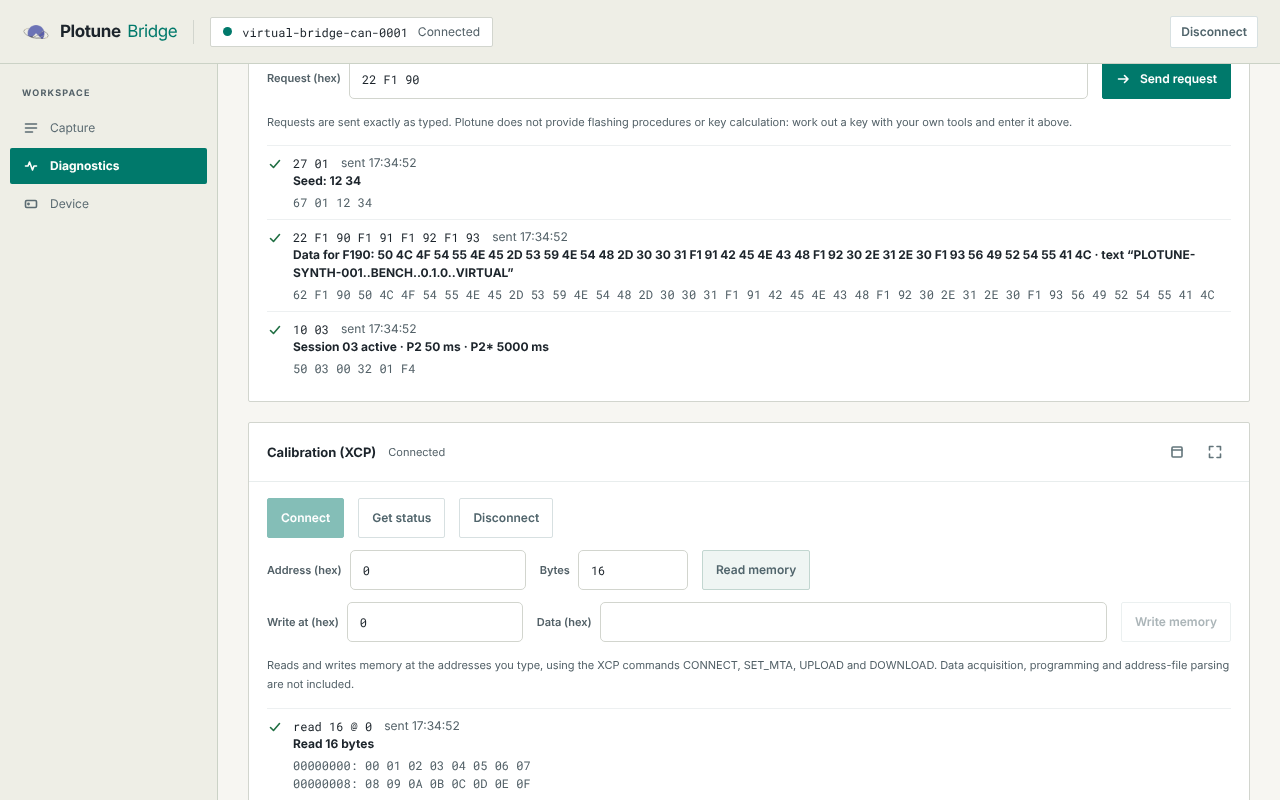
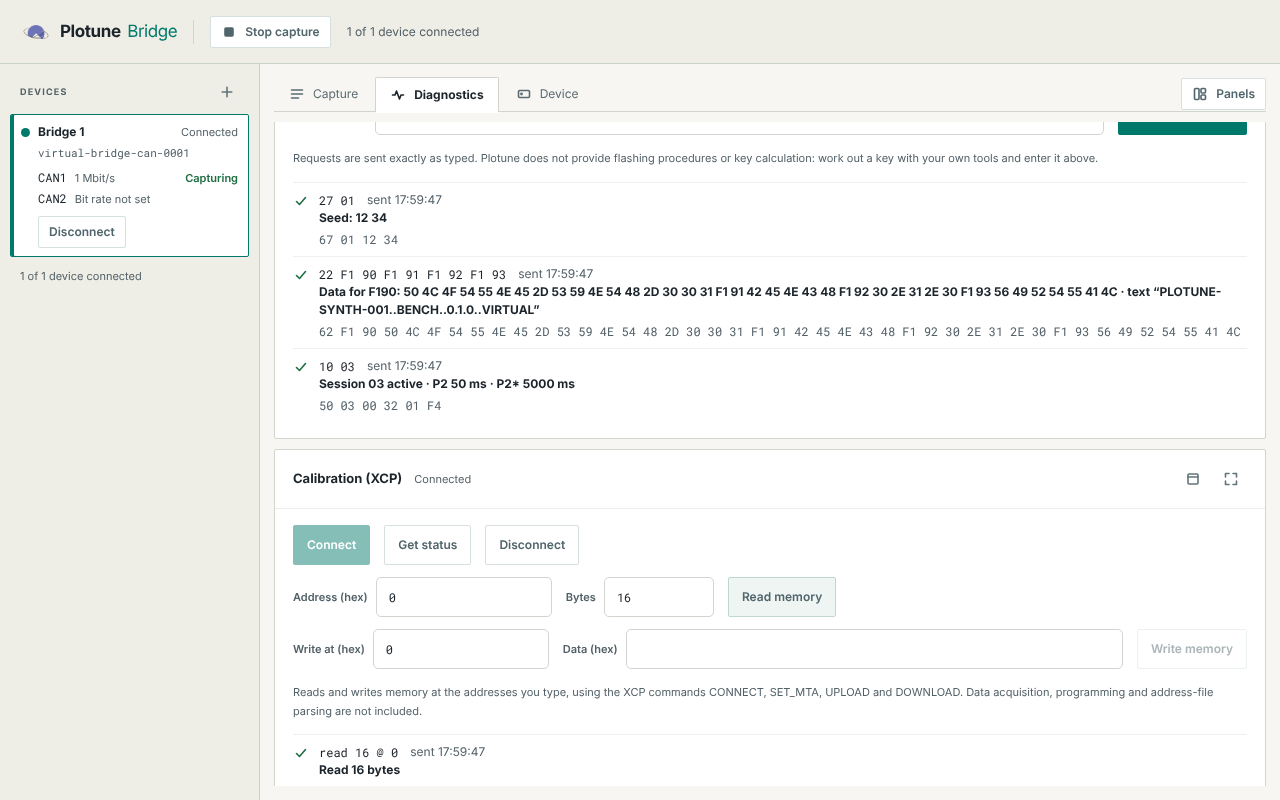
docs: describe the measurement-style layout, multi-device behaviour and new screenshots
Claude-Session: https://claude.ai/code/session_01KBLFDomS3vjcojxcnnjXQw

diff --git a/docs/ux-notes.md b/docs/ux-notes.md
@@ -71,11 +71,8 @@ Source paths are relative to `plotune-web` at the commit above. Line numbers ref
 | `--radius-badge` | `3px` | `src/StreamWorkspace/workspace.css:610` |
 | `--radius-dialog` | `8px` | `src/StreamWorkspace/workspace.css:1229` |
 | `--size-topbar` | `64px` | `src/StreamWorkspace/workspace.css:114` |
-| `--size-sidebar` | `218px` | `src/StreamWorkspace/workspace.css:219` |
+| `--size-setup` | `260px` | **Not from Stream.** Stream's sidebar is 218px (`workspace.css:219`); this list is wider to fit device names. |
 | `--size-control` | `40px` | `src/StreamWorkspace/workspace.css:432` |
-| `--size-nav-item` | `36px` | `src/StreamWorkspace/workspace.css:282` |
-| `--gap-grid` | `20px` | `src/StreamWorkspace/workspace.css:830` |
-| `--pad-main` | `25px 30px 0` | `src/StreamWorkspace/workspace.css:336` |
 | `--pad-panel-head` | `13px 18px` | `src/StreamWorkspace/workspace.css:527` |
 | `--pad-table-head` | `11px 18px` | `src/StreamWorkspace/workspace.css:578` |
 | `--pad-table-cell` | `10px 18px` | `src/StreamWorkspace/workspace.css:582` |
@@ -97,8 +94,8 @@ Source paths are relative to `plotune-web` at the commit above. Line numbers ref
 ## 2. Layout and type conventions taken from Stream
 
 - Light "paper" page, white panels with a 1 px rule, no shadows on panels, 2 px corner radius on panels, buttons and navigation; 5 px on inputs; 3 px on badges.
-- 64 px top bar and 218 px sidebar in the "chrome" tone; active navigation is a solid teal fill with off-white text.
-- Page head: 30 px Inter, weight 500, tight tracking, a rule below. Panel head 53 px with a 13 px title at weight 650.
+- 64 px top bar in the "chrome" tone. The left column is a device list (260 px, see below) in the same tone; Stream's solid-teal active navigation is no longer used for the window tabs, which follow the tab pattern instead (section 4).
+- Panel head 53 px with a 13 px title at weight 650. (Stream's 30 px page head was dropped from workspace pages so the trace gets the room; see differences.)
 - Table heads in 10 px uppercase Roboto Mono on the chrome tone.
 - 13 px / 1.5 base text; small caps-style labels at 9 px with wide tracking.
 - Focus ring: 2 px teal, 3 px offset.
@@ -110,6 +107,7 @@ Source paths are relative to `plotune-web` at the commit above. Line numbers ref
 | Buttons, inputs and table text use 12 px, not Stream's 11 px | Hex data and bit rates are read all day; 12 px is easier to read at the same control height. |
 | Badge and status **text** uses the darker shades Stream defines for text (`--text-good`, `--text-bad`, `--text-warn`) and the muted ink for neutral, on Stream's own badge backgrounds | Stream's raw badge pairs measure 4.34:1 (warn) and 3.62:1 (neutral), below the 4.5:1 needed for small text. A test (`tests/tokens.test.ts`) checks every text pair and records this. |
 | Channel chips use ink text with a teal or violet edge | Teal text on the teal tint is exactly at the 4.5:1 limit. Channel identity is the text (CAN1, CAN2); the colour is only a second cue. |
+| Denser workspace: 10 px gaps and 12 px page padding instead of Stream's 20 px grid gap and 25/30 px page padding; no large page title | The Capture window has to show a trace and three working panels without scrolling on a laptop screen. |
 | No dark theme | A light-theme workspace is the requirement. |
 
 ## 3. Accessibility checks that back these choices
@@ -125,9 +123,12 @@ The maintainer's reference tool for measurement workflows is Vector CANoe. **Onl
 |---|---|---|
 | **Trace window as a time-ordered table** with one row per frame | The Trace panel: Time, Channel, ID, Type, Dir, Len, Data. | Plain labels ("Std Data", "Remote", "Rx", "Tx"); time is seconds with microseconds, relative to the first frame and computed on 64-bit integers; the buffer is bounded and counts what scrolled out of view; no symbolic names or signal decoding. |
 | **Channel column and per-channel conventions** | Every row is tagged CAN1 or CAN2 exactly as the device labels it; each channel has its own bit rate, termination switch and "include in capture" choice. | Channels are the product's two channels; termination is a software switch on the device (off by default). Colour is a secondary cue only. |
-| **Measurement-style start and stop** | One toggle in the page head: Start capture, Stop capture. Clear is separate. | Called "capture". Stopping delivers everything captured before the stop. A device can keep capturing while this page is disconnected, and the page says so on reconnect instead of pretending it stopped. |
-| **Status and error indicators** | A connection chip in the top bar, a bus-state badge per channel, a statistics table, a "frames missing" badge. | Losing frames is a first-class state: the device reports drops per channel, the trace header shows a running total, and the trace carries a marker row where the report arrived. There is no bus-load percentage because the device does not report one. |
-| **Several windows in one workspace, each maximizable** | Dashboard pages of panels; each panel can be maximized, shown full screen, and hidden from a Panels menu (remembered in the browser). | A fixed grid, not free-form docking. Three pages (Capture, Diagnostics, Device) instead of a configuration tree. |
+| **Measurement-style start and stop** | One toggle in the top bar: Start capture, Stop capture. Clear is separate. | Called "capture". Stopping delivers everything captured before the stop. A device can keep capturing while this page is disconnected, and the page says so on reconnect instead of pretending it stopped. |
+| **Status and error indicators** | A connection state on each device card, a bus-state badge per channel, a statistics table, a "frames missing" badge. | Losing frames is a first-class state: the device reports drops per channel, the trace header shows a running total, and the trace carries a marker row where the report arrived. There is no bus-load percentage because the device does not report one. |
+| **Several windows in one workspace, each maximizable** | Window tabs (Capture, Diagnostics, Device). On Capture the trace fills the top of the screen and Channels, Statistics and Send frame tile below it. Each panel can be maximized, shown full screen, and hidden from a Panels menu (remembered in the browser). | A fixed tiling, not free-form docking or detachable windows. |
+| **A tree listing the measurement sources** | The Devices list on the left: one card per device with its state, address-derived name, channels (bit rate, capturing) and a Disconnect/Remove action. Selecting a device points Channels, Statistics, Send frame, Diagnostics and Device at it. | A flat list of devices, not a configuration tree. Channels are shown, but configured in the Channels panel. Up to eight devices. |
+| **One trace for several sources** | With two or more devices the Trace gets a Device column and a source selector (All devices or one device). | Rows are merged in the order they **arrive on this page**, not by time. Device clocks are not synchronised, so each row's time is relative to **its own device's** first frame, and the trace says so. Nothing is interpolated or re-ordered. |
+| **One start/stop for the whole measurement** | The top-bar Start capture / Stop capture acts on every connected device. | Each device keeps its own bit rates and results. A device that cannot start reports its own reason in its card. |
 | **A dedicated transmit window** | The Send frame panel with channel, ID, format, type and data, and a log of recent sends. | One frame at a time: no periodic or triggered sending, no signal-based sending. Mistakes are explained before anything is sent. |
 | **A separate diagnostics tool** | The Diagnostics page: link settings, generic diagnostic requests, and memory read/write over the calibration protocol. | Generic only. The seed is shown and the key is typed by the user; there are no flashing procedures or key algorithms. |
 

diff --git a/README.md b/README.md
@@ -26,7 +26,7 @@ The connection layer sits behind an adapter interface so a WebRTC or helper tran
 3. Choose **Allow** when the browser asks about local network access.
 4. Set a bit rate on each channel, then **Start capture**.
 
-Capture shows both channels in one trace with the device's timestamps. Nothing is relabelled or discarded silently: every row keeps the channel, the 64-bit device timestamp and the direction; frames the device could not deliver are counted per channel and marked in the trace; frames lost in transit are counted separately; rows that scroll out of the bounded view are counted too.
+The workspace works like a measurement window: a device list on the left, the trace filling the top of the screen, and Channels, Statistics and Send frame tiled underneath. **Several devices** (up to eight) can be connected at once; Start capture / Stop capture in the top bar acts on all of them, the selected device is the one the panels act on, and the Trace shows all devices merged in arrival order (each row names its device) or one device at a time. Capture shows each device's channels in one trace with the device's timestamps. Nothing is relabelled or discarded silently: every row keeps the channel, the 64-bit device timestamp and the direction; frames the device could not deliver are counted per channel and marked in the trace; frames lost in transit are counted separately; rows that scroll out of the bounded view are counted too.
 
 ## Develop
 
@@ -59,11 +59,16 @@ The browser's local-network permission prompt cannot be shown or answered by aut
 
 ```bash
 BRIDGE_VIRTUAL_URL=ws://127.0.0.1:9101        # virtual device: 2 channels, seeded generator, loopback
+BRIDGE_VIRTUAL2_URL=ws://127.0.0.1:9121       # a second virtual device (two real devices in one workspace)
 BRIDGE_OVERFLOW_URL=ws://127.0.0.1:9111       # virtual device: tiny buffer, fast generator
 BRIDGE_BENCH_URL=ws://127.0.0.1:9202          # generator's paired Bridge endpoint (synthetic ECU behind it)
 BRIDGE_BENCH_CONTROL_URL=ws://127.0.0.1:9201  # generator control endpoint
 BRIDGE_BENCH_ORIGIN_URL=ws://127.0.0.1:9302   # a second bench started with --ws-origin https://bridge.plotune.net
 ```
+
+### Looking at the interface while developing
+
+`node scripts/dev-shots.mjs <label> [baseUrl] [addr1,addr2,...]` drives a running preview or dev server (default `http://127.0.0.1:4173`) with two devices and saves screenshots of the Capture, Diagnostics and Device windows, and a phone-width Capture view, into `.dev-shots/<label>/` (ignored by git). Take one before and one after a change to compare them.
 
 ## The device contract copy
 
@@ -103,7 +108,7 @@ The page sets its own Content-Security-Policy through a `<meta>` tag because Git
 
 **Built:** device connection over WebSocket; permission explanation, denial handling and retry; unsupported-browser notice; replace-on-connect and close-code handling; two-channel capture with a basic live trace; channel and device status; drop, overflow and transit-loss display; send frame; client-side ISO-TP, generic UDS and XCP-on-CAN; maximizable and full-screen panels with a show/hide menu; light Plotune theme.
 
-**Not built (candidates, not commitments):** trace filtering and search, plots and numeric panels, ASC recording/export, DBC import and signal decoding. The trace is deliberately a plain live table. Also not built: Plotune account sign-in, multiple saved devices, remote access (relay or WebRTC), and any CAN FD view (Classic CAN only).
+**Not built (candidates, not commitments):** trace filtering and search, plots and numeric panels, ASC recording/export, DBC import and signal decoding. The trace is deliberately a plain live table. Also not built: Plotune account sign-in, remembering the device list between visits, remote access (relay or WebRTC), and any CAN FD view (Classic CAN only).
 
 ## Assumptions
 

diff --git a/docs/device-requirements.md b/docs/device-requirements.md
@@ -49,6 +49,10 @@ A new connection **replaces** the current one when it is accepted, before any `h
 
 Raw codes only appear under "Technical details".
 
+### Several devices
+
+The page can hold up to eight devices at once, each on its own WebSocket and its own session. Every device must allow this page's origin (section 1) and each is replaced independently (above). Device clocks are **not** synchronised with each other, so the merged trace shows frames in the order they arrive on the page, with each device's time relative to its own first frame. A device that can report its wall-clock time does so in `hello`; the page shows whether it is synced on the Device window, but does not use it to merge devices.
+
 ## 4. Offer `wss://` if you can
 
 A secure address avoids the browser's restrictions on plain `ws://` from secure pages, and is the only direct option in browsers that block `ws://`. The page accepts `wss://` addresses and makes no assumption about them. Certificate provisioning (a certificate the browser trusts) is outside this page and not covered here.
